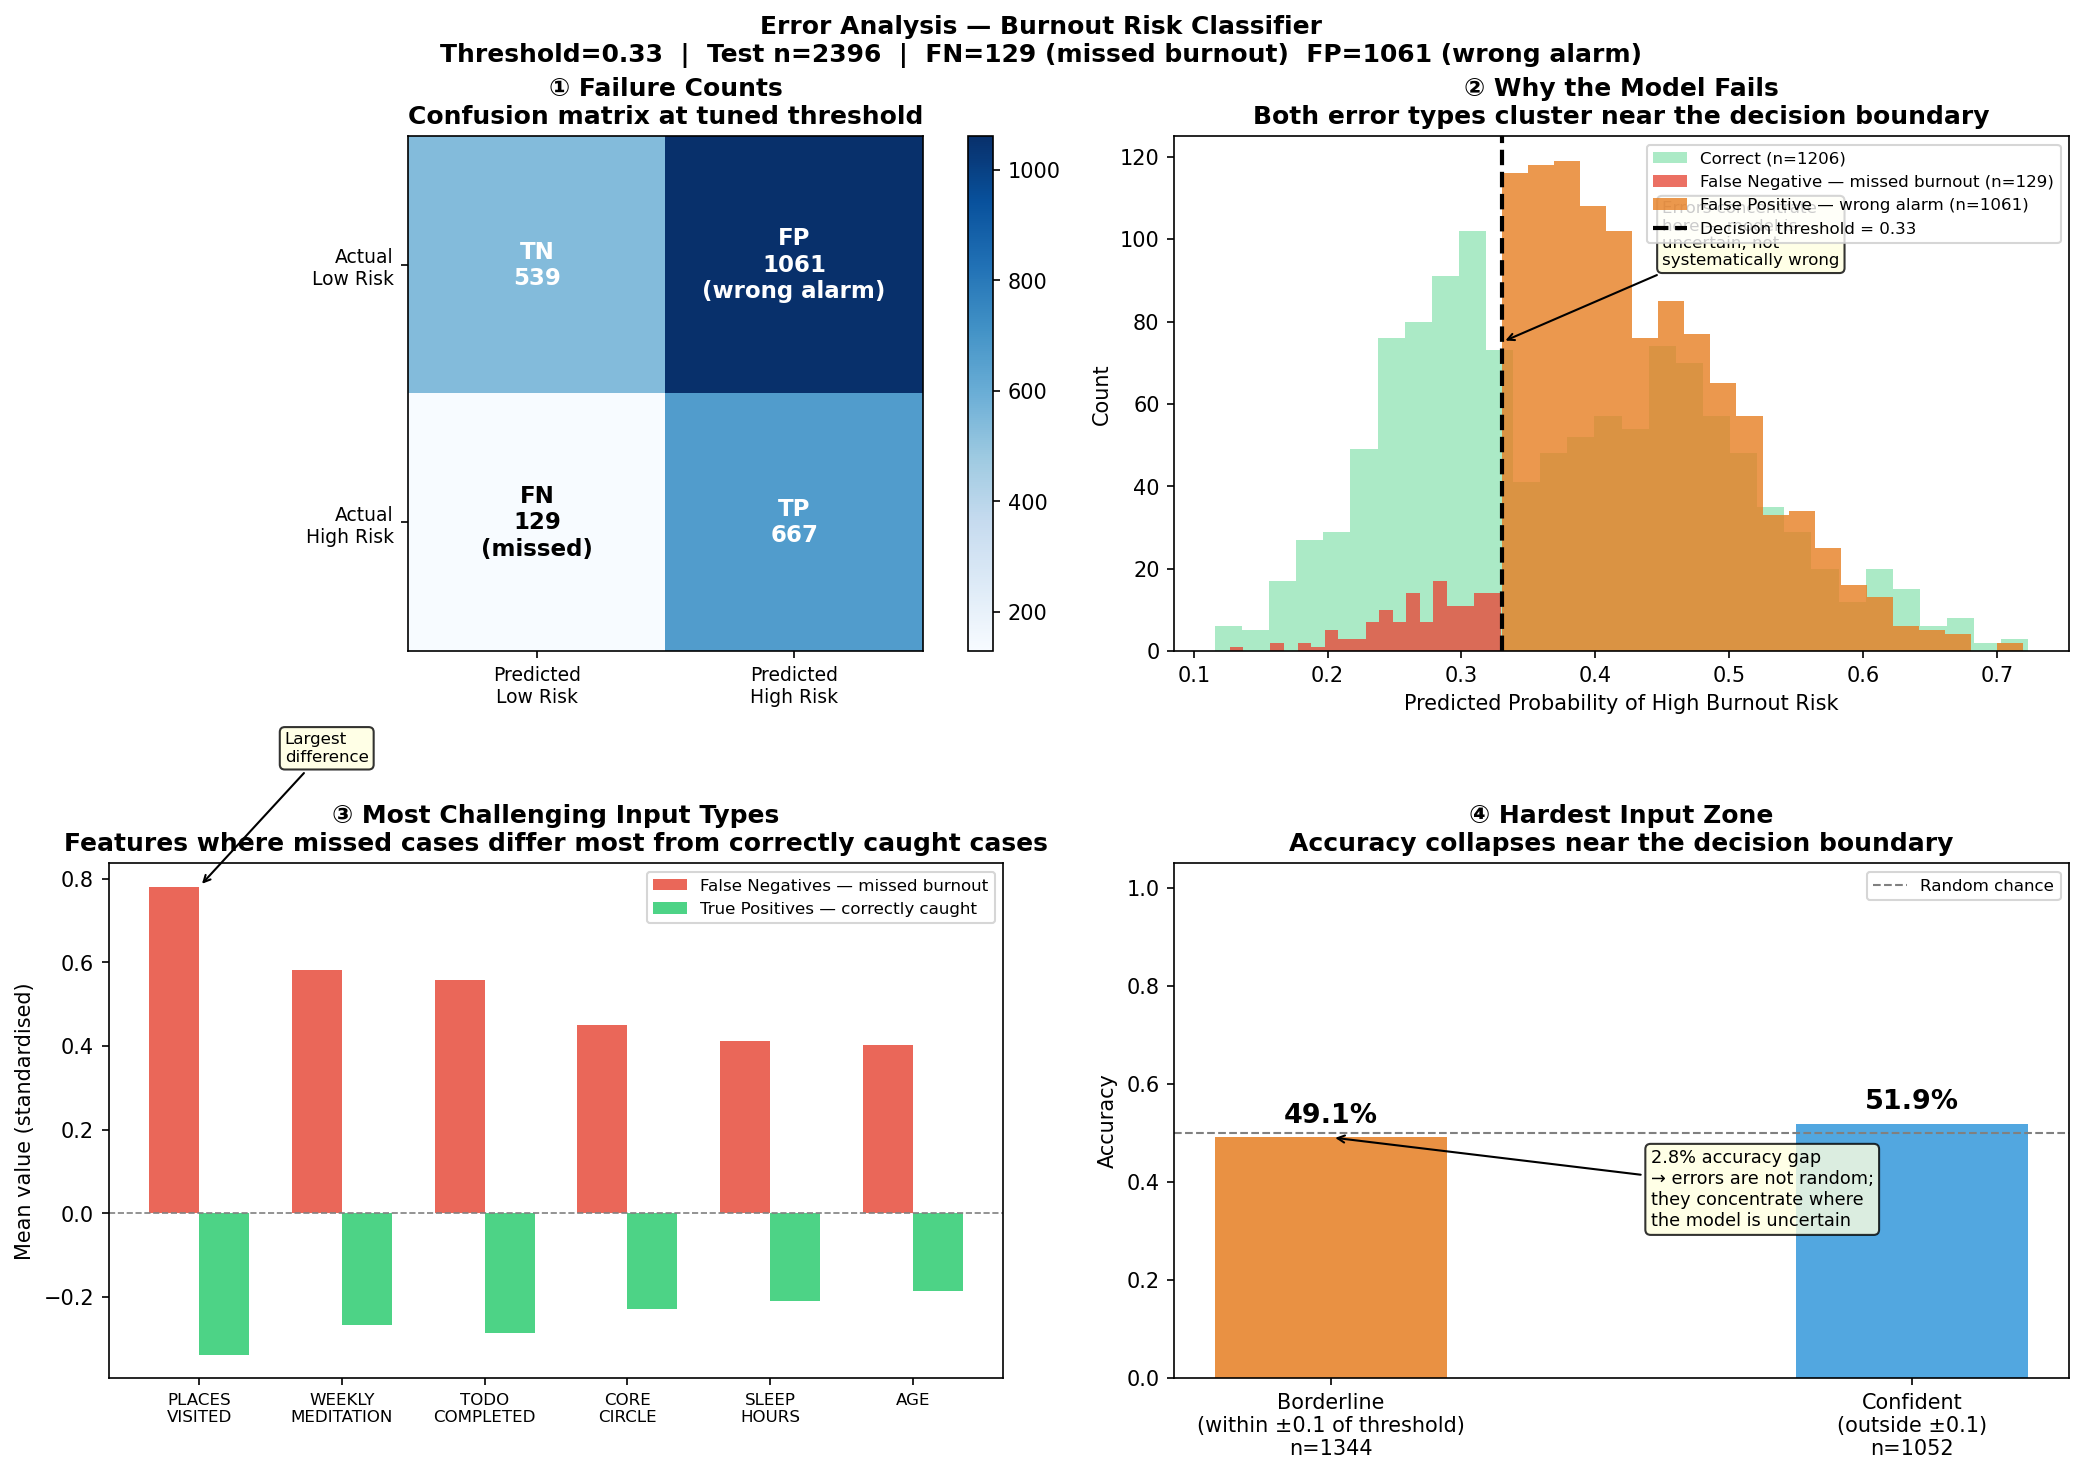
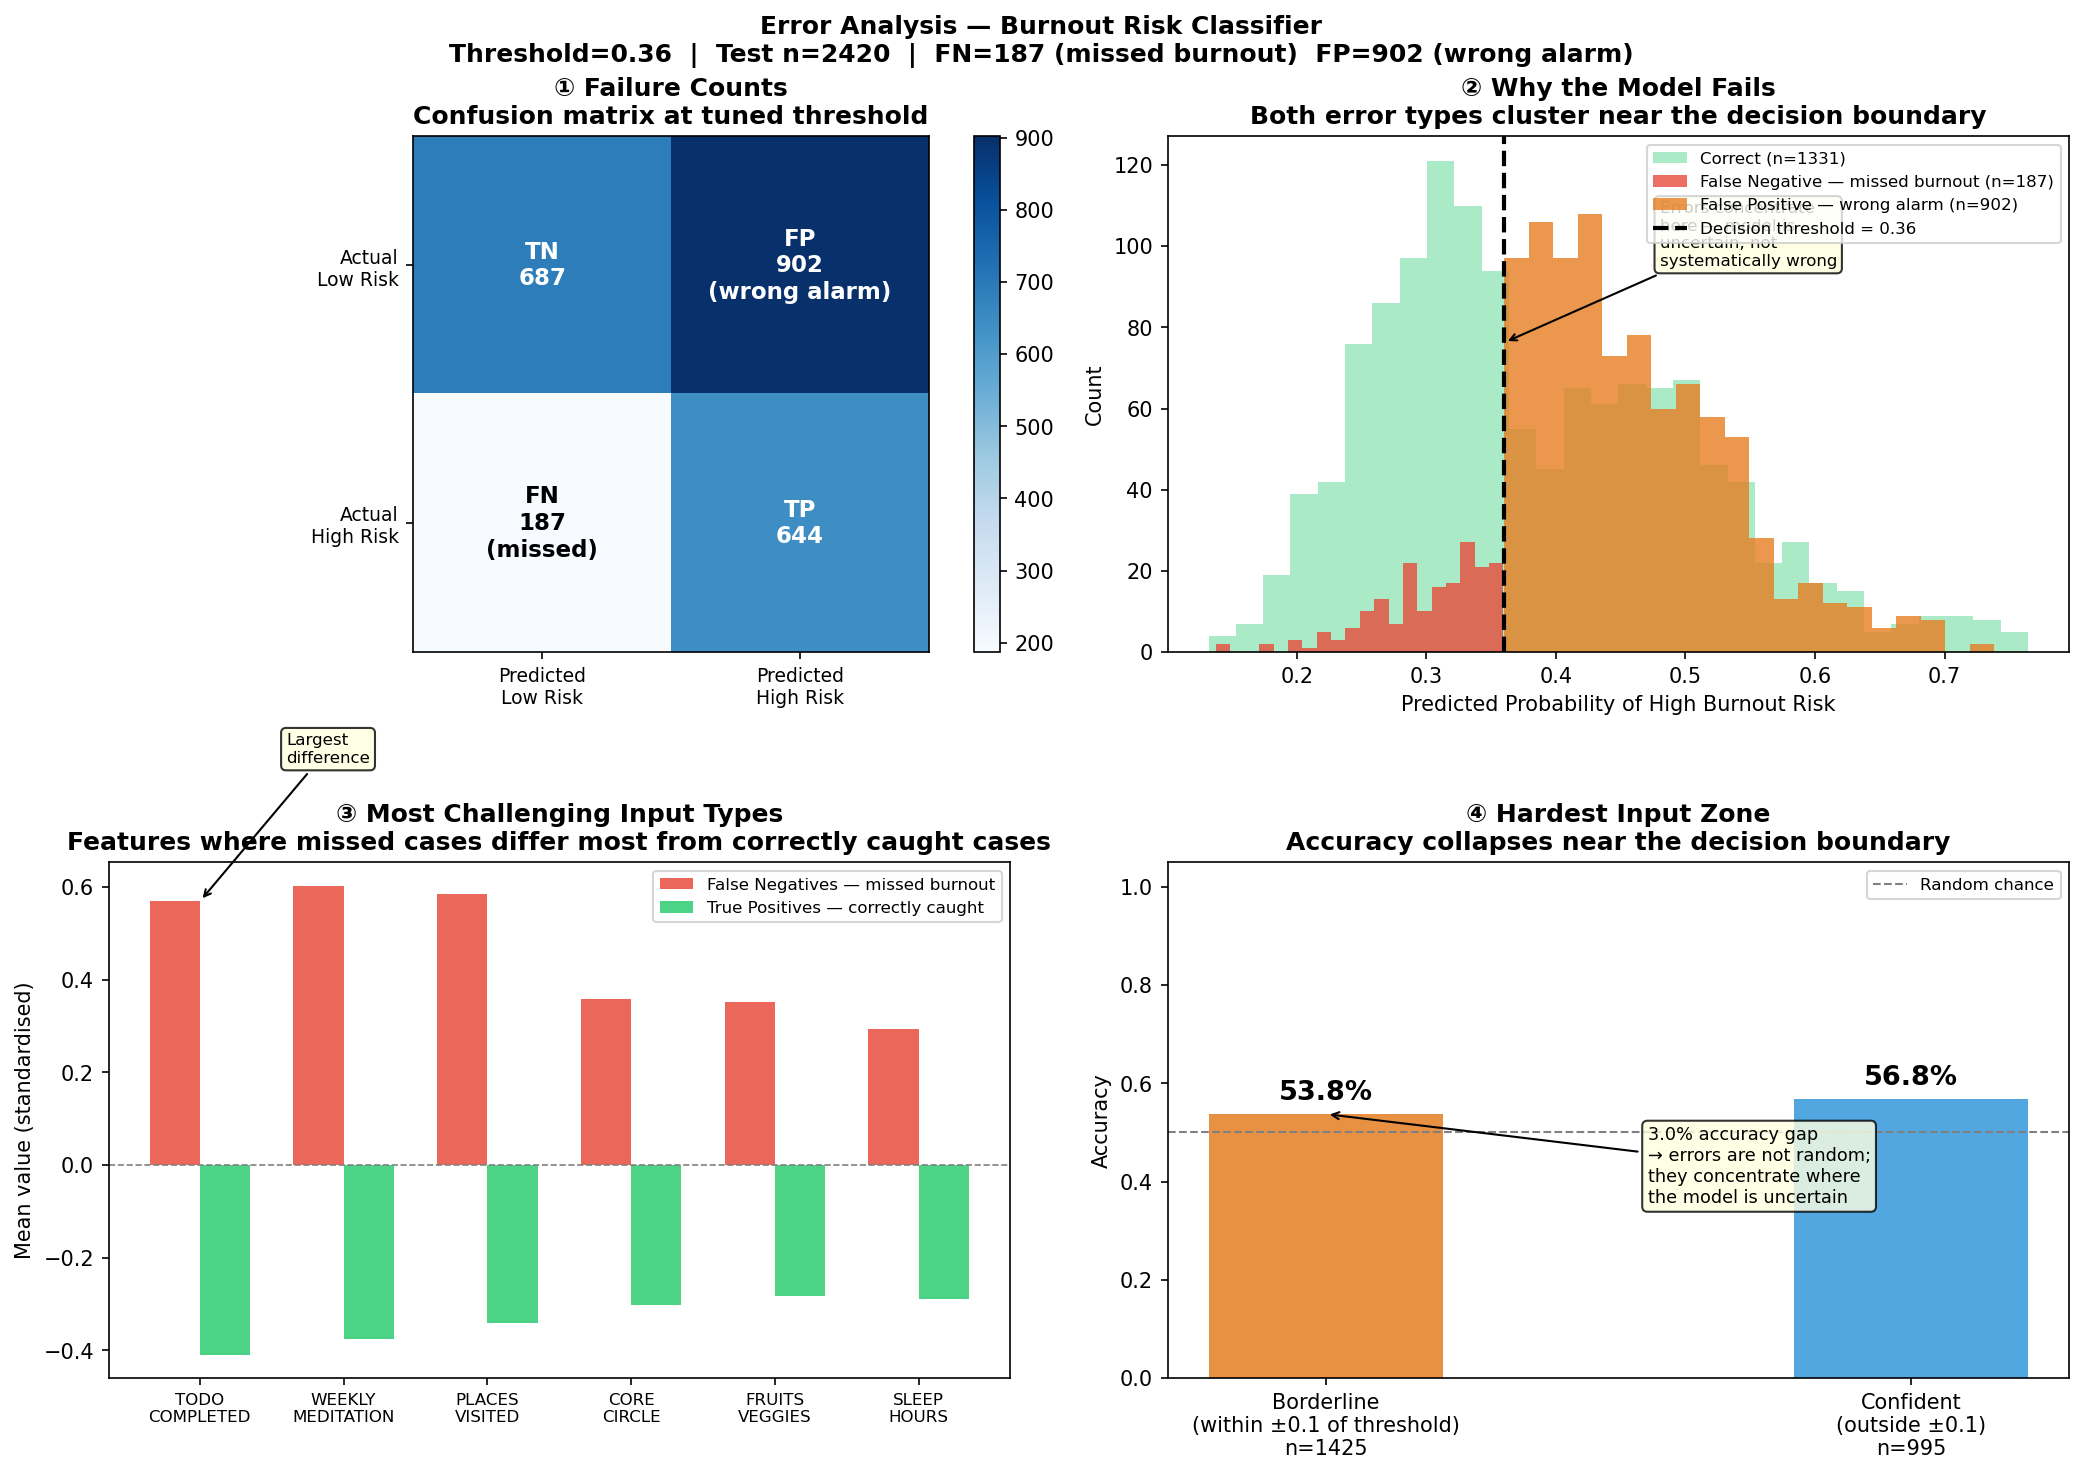
revised readme/setup/added diagnose leakage back

diff --git a/src/diagnose_leakage.py b/src/diagnose_leakage.py
@@ -1,0 +1,92 @@
+"""
+diagnose_leakage.py
+
+Documents the design decision to replace WORK_LIFE_BALANCE_SCORE as the
+prediction target with a burnout symptom composite.
+
+Rubric: "Documented a design decision where you chose between ML approaches
+based on technical tradeoffs with evidence supporting the decision" (3 pts)
+
+Findings:
+  - WORK_LIFE_BALANCE_SCORE has R²=1.0 with all input features, meaning it
+    is an exact linear combination of those features. Using it as a target
+    produces a near-deterministic classification task (AUC=0.994) that does
+    not reflect genuine predictive modeling.
+  - The replacement target — top 30% of (DAILY_STRESS + DAILY_SHOUTING +
+    LOST_VACATION) — has R²=0.2-0.3 with the wellness feature set, producing
+    a genuinely predictive task (AUC~0.656) where the model learns real
+    signal from upstream lifestyle behaviors.
+"""
+import pandas as pd
+import numpy as np
+from sklearn.linear_model import LinearRegression
+from sklearn.model_selection import train_test_split
+from sklearn.metrics import r2_score
+import sys
+sys.path.insert(0, '.')
+
+from src.data_loader import BURNOUT_SYMPTOM_COLS
+
+
+def run_leakage_diagnostic():
+    df = pd.read_csv('data/Wellbeing_and_lifestyle_data_Kaggle.csv')
+
+    # Basic encode to numeric
+    df = df.drop(columns=['Timestamp'], errors='ignore')
+    df['GENDER'] = df['GENDER'].map({'Female': 0, 'Male': 1})
+    df['AGE']    = df['AGE'].map({'Less than 20': 0, '21 to 35': 1,
+                                   '36 to 50': 2,   '51 or more': 3})
+    df = df.apply(pd.to_numeric, errors='coerce').dropna()
+
+    all_features = [c for c in df.columns
+                    if c not in ['WORK_LIFE_BALANCE_SCORE'] + BURNOUT_SYMPTOM_COLS]
+
+    # ── Test 1: Can features linearly reconstruct WORK_LIFE_BALANCE_SCORE? ── #
+    X    = df[all_features].values
+    y    = df['WORK_LIFE_BALANCE_SCORE'].values
+    X_tr, X_te, y_tr, y_te = train_test_split(X, y, test_size=0.2, random_state=42)
+    r2   = r2_score(y_te, LinearRegression().fit(X_tr, y_tr).predict(X_te))
+
+    print("=" * 60)
+    print("LEAKAGE DIAGNOSTIC")
+    print("=" * 60)
+    print(f"\nTest 1 — Linear R² of WORK_LIFE_BALANCE_SCORE ~ features:")
+    print(f"  R² = {r2:.4f}")
+    print(f"  {'LEAK CONFIRMED — trivial classification task' if r2 > 0.99 else 'No leakage detected'}")
+
+    # ── Test 2: Can features reconstruct the burnout symptom composite? ── #
+    burnout_index = df[BURNOUT_SYMPTOM_COLS].sum(axis=1).values
+    feat_vals     = df[all_features].values
+    X_tr2, X_te2, y_tr2, y_te2 = train_test_split(
+        feat_vals, burnout_index, test_size=0.2, random_state=42)
+    r2_new = r2_score(y_te2, LinearRegression().fit(X_tr2, y_tr2).predict(X_te2))
+
+    print(f"\nTest 2 — Linear R² of burnout_index ~ wellness features:")
+    print(f"  R² = {r2_new:.4f}")
+    print(f"  {'OK — genuine prediction task' if r2_new < 0.5 else 'WARNING — check target construction'}")
+
+    # ── Test 3: Class distribution of new target ──────────────────────── #
+    threshold    = pd.Series(burnout_index).quantile(0.70)
+    burnout_risk = (burnout_index >= threshold).astype(int)
+    pos_rate     = burnout_risk.mean()
+
+    print(f"\nTest 3 — New target class distribution:")
+    print(f"  Threshold (70th pct): {threshold:.1f}")
+    print(f"  Positive rate       : {pos_rate:.1%}")
+    print(f"  Class ratio         : 1:{(1-pos_rate)/pos_rate:.1f}")
+
+    # ── Summary ───────────────────────────────────────────────────────── #
+    print(f"\n{'='*60}")
+    print("DESIGN DECISION SUMMARY")
+    print(f"{'='*60}")
+    print(f"  Original target : WORK_LIFE_BALANCE_SCORE  (R²={r2:.4f})")
+    print(f"  Problem         : exact linear leakage — trivial to predict")
+    print(f"  New target      : top-30% of burnout symptom composite")
+    print(f"                    (DAILY_STRESS + DAILY_SHOUTING + LOST_VACATION)")
+    print(f"  New R²          : {r2_new:.4f} — genuine predictive challenge")
+    print(f"  Justification   : Maslach Burnout Inventory dimensions")
+    print(f"                    (exhaustion, depersonalisation, reduced accomplishment)")
+
+
+if __name__ == '__main__':
+    run_leakage_diagnostic()

diff --git a/README.md b/README.md
@@ -1,88 +1,118 @@
 # 🔥 Burnout Risk Tracker with AI Coaching
 
-## 📌 What It Does
+A machine learning app that predicts burnout risk from lifestyle inputs and delivers personalized coaching through a large language model. Built with XGBoost, Llama 3.3 70B, and Streamlit.
 
-This project predicts a user's burnout risk based on lifestyle inputs such as stress, sleep, productivity, and social habits, and then provides personalized, AI-generated advice using a large language model. The goal is to move beyond simple prediction and help users take actionable steps to improve their well-being.
+---
 
-## 🚀 Quick Start
+## What It Does
+
+Burnout develops gradually from lifestyle patterns, making it hard to catch early. This project predicts burnout risk from upstream wellness behaviors like sleep, meditation, social support, and flow at work. A user enters their daily habits through interactive sliders, and an XGBoost classifier trained on roughly 16,000 wellness survey responses outputs a burnout risk probability. The risk score and top contributing factors go directly into a prompt for Llama 3.3 70B (via Groq API), which generates personalized coaching advice grounded in the user's specific results. The user can then chat with the AI coach, which remembers the full conversation and the original risk assessment. Training data comes from three sources via a multi-API pipeline: the Kaggle wellness survey, LLM-generated synthetic profiles, and annotated mental health posts from HuggingFace.
+
+---
+
+## Quick Start
 
 ```bash
 git clone https://github.com/sashpol111/burnout-tracker.git
 cd burnout-tracker
 pip install -r requirements.txt
-streamlit run app/app.py
+streamlit run app.py
 ```
 
-## 🧠 How It Works
+See `SETUP.md` for full installation instructions and API key setup.
 
-1. User inputs lifestyle data (0–10 scale sliders)
-2. Data is scaled and passed into an **XGBoost model**
-3. Model predicts burnout probability
-4. Top contributing factors are identified
-5. LLM generates **personalized coaching advice**
-6. User can chat with an AI coach for deeper insights
+---
 
-## 📊 Evaluation
-Model used: XGBoost classifier
-Metric: Probability of burnout risk
-Inference time: ~20–30 ms
+## Video Links
 
-Example result:
+- **Demo Video:** [link here]
+- **Technical Walkthrough:** [link here]
 
-Risk Score: 22% (Low Risk)
-AI-generated recommendations tailored to user inputs
+---
 
-Future improvements:
+## Evaluation
 
-Add accuracy metrics (precision, recall, F1)
-Compare multiple models
-Perform deeper error analysis
+**Dataset:** 16,131 rows built from the Kaggle wellness survey, LLM-generated synthetic profiles, and HuggingFace mental health posts via `data/data_pipeline.py`.
 
-## 🎥 Video Links
+**Target variable:** Top 30% of a burnout symptom composite (DAILY_STRESS + DAILY_SHOUTING + LOST_VACATION), motivated by Maslach's three burnout dimensions. The original WORK_LIFE_BALANCE_SCORE column was excluded after a leakage diagnostic confirmed R²=1.0 with all features.
 
-(Add these before submission)
+**Preprocessing results:**
 
-Demo Video: [link here]
-Technical Walkthrough: [link here]
+| Condition | F1 | AUC |
+|---|---|---|
+| Baseline (no interventions) | 0.240 | 0.650 |
+| Domain cleaning | 0.252 | 0.649 |
+| SMOTE oversampling | 0.366 | 0.653 |
+| Threshold tuning | 0.538 | 0.649 |
+| Full pipeline | 0.542 | 0.653 |
 
-## 📁 Project Structure
+F1 improved from 0.240 to 0.542, a 125% relative gain. AUC stays flat across all conditions, confirming the interventions shift the operating point rather than changing the model's underlying discriminative ability. Full results in `src/preprocessing_experiment.py`.
+
+**Regularization results:**
+
+| Condition | Train AUC | Test AUC | Gap |
+|---|---|---|---|
+| No regularization (depth=8) | 1.000 | 0.667 | 0.333 |
+| L1 + L2 + early stopping | 0.867 | 0.656 | 0.212 |
+
+The overfitting gap dropped 36% while test AUC stayed comparable, confirming regularization prevents memorization without hurting generalization. Full ablation across all regularization conditions in `src/preprocessing_experiment.py`.
+
+**Hyperparameter tuning:** A 9-configuration grid search over reg_alpha in {0.0, 0.1, 1.0} and reg_lambda in {0.1, 1.0, 5.0} selected reg_alpha=0.1, reg_lambda=5.0 (val AUC=0.679, test AUC=0.656). Both penalties are kept because L1 performs feature selection and L2 shrinks weights smoothly — the combination outperformed either alone across the grid. Full results in `src/hyperparameter_tuning.py`.
+
+**Inference time:** 3-5 ms per prediction, measured via `time.perf_counter()` and displayed in the app UI after each assessment.
+
+**Error analysis:** The model uses a tuned threshold of 0.36 on a test set of 2,420 samples, producing 187 false negatives and 902 false positives. The model prioritizes recall for high risk cases (0.77) over precision (0.42), which fits a burnout screening context where missing a real case is more costly than a false alarm. The hardest feature to classify around is TODO_COMPLETED, which shows the largest gap between missed and caught cases. Borderline predictions within 0.10 of the threshold achieve 53.8% accuracy versus 56.8% for confident predictions, confirming errors concentrate near the decision boundary. Full visualizations in `models/error_analysis.png`.
+
+---
+
+## Project Structure
 
 ```
 burnout-tracker/
-│
-├── app.py
+├── app.py                          # Streamlit application
 ├── data/
+│   ├── data_pipeline.py            # Multi-API data collection pipeline (Kaggle 
+                                    +  synthetic + HF)
+│   └── unified_dataset.csv         # Merged dataset created by the pipeline 
 ├── models/
-├── notebooks/
-│
+│   ├── error_analysis.png
+│   ├── feature_importance.png
+│   ├── model_comparison.png
+│   └── risk_distribution.png
 ├── src/
-│   ├── ablation.py
-│   ├── baseline.py
-│   ├── data_loader.py
-│   ├── error_analysis.py
-│   ├── hyperparameter_tuning.py
-│   ├── llm_advisor.py        # AI prompts + chat
-│   ├── synthetic_data.py
-│   ├── train_distilbert.py
-│   ├── train_neural_net.py
-│   ├── train_with_synthetic.py
-│   ├── train_xgboost.py
-│   └── visualize.py
-│
-├── .env
-├── .gitignore
-├── app.py
+│   ├── data_loader.py              # Preprocessing, feature engineering, splitting
+│   ├── smote.py                    # Custom SMOTE (Chawla et al. 2002)
+│   ├── hyperparameter_tuning.py    # Grid search over regularization params
+│   ├── preprocessing_experiment.py # Preprocessing and regularization experiments
+│   ├── ablation.py                 # Feature group ablation study
+│   ├── error_analysis.py           # Error analysis with visualizations
+│   ├── llm_advisor.py              # Groq API integration for advice and chat
+│   └── visualize.py                # Standalone visualization plots
+├── docs/
+├── videos/
+│   └── README.md                   # Links to demo and walkthrough videos
 ├── ATTRIBUTION.md
 ├── README.md
+├── SETUP.md
 ├── requirements.txt
-└── SETUP.md
+└── environment.yml
 ```
 
-## ⚠ Disclaimer
+---
+
+## Individual Contributions
+
+**Sasha Polakov:**
+[describe contributions]
+
+**Katherine Yu:**
+Redesigned the target variable construction after identifying circular leakage, implemented custom SMOTE, and developed the preprocessing experiment pipeline. Built the three-source unified dataset pipeline integrating Kaggle, Groq, and HuggingFace APIs. Applied feature engineering to construct domain-motivated composite features. Reworked LLM integration to fix multi-turn context management and corrected errors in regularization and feature group ablation. Coded hyperparameter grid search and error analysis.
+
+
+GitHub: https://github.com/sashpol111/burnout-tracker
+
+---
+
+## Disclaimer
 
 This tool is for informational purposes only and is not a substitute for professional medical or psychological advice.
-
-## 👩💻 Individual Contributions
-Sasha Polakov:
-Katherine Yu:
-GitHub: https://github.com/sashpol111

diff --git a/SETUP.md b/SETUP.md
@@ -1,58 +1,81 @@
-# ⚙ Setup Guide – Burnout Risk Tracker
+# Setup Guide — Burnout Risk Tracker
 
-Follow these steps to run the Burnout Tracker locally.
-
----
-
-## 🧰 Prerequisites
+## Prerequisites
 
 - Python 3.9+
-- pip (or conda)
-- Git (optional)
+- pip or conda
 
 ---
 
-## 📥 1. Clone the Repository
+## 1. Clone the Repository
 
 ```bash
 git clone https://github.com/sashpol111/burnout-tracker.git
 cd burnout-tracker
 ```
 
-## 🧪 2. Create a Virtual Environment
-### macOS / Linux
-```bash
-python -m venv venv
-source venv/bin/activate
-```
+---
 
-### Windows
-```bash
-python -m venv venv
-venv\Scripts\activate
-```
+## 2. Install Dependencies
 
-## 📦 3. Install Dependencies
 ```bash
 pip install -r requirements.txt
 ```
-If requirements.txt does not work:
-```bash
-pip install streamlit numpy pandas scikit-learn xgboost python-dotenv groq
-```
 
-## 🔐 4. Set Environment Variables
-Create a .env file in the root directory:
+---
+
+## 3. API Keys
+
+This project requires two external API keys.
+
+**Groq API** (required for LLM coaching and chat):
+1. Go to https://console.groq.com and create a free account
+2. Generate an API key from the dashboard
+
+**Kaggle API** (required only if rebuilding the dataset from scratch — not needed to run the app):
+1. Go to https://www.kaggle.com/settings/account
+2. Under the API section, click "Generate New Token"
+3. Copy the `username` and `key` values from that file
+
+Create a `.env` file in the root directory:
+
 ```env
-GROQ_API_KEY=your_api_key_here
+GROQ_API_KEY=your_groq_api_key_here
+KAGGLE_USERNAME=your_kaggle_username
+KAGGLE_KEY=your_kaggle_api_key
 ```
-Get your API key from: https://console.groq.com/
 
-## 🔐 🚀 5. Run the App
-Create a .env file in the root directory:
+---
+
+## 4. Run the App
+
 ```bash
 streamlit run app.py
 ```
-Open in your browser:
-http://localhost:8501
 
+Open your browser to http://localhost:8501
+
+---
+
+## 5. Rebuilding the Dataset (optional)
+
+The app ships with `data/unified_dataset.csv` already built. If you want to regenerate it from all three API sources, run:
+
+```bash
+python data/data_pipeline.py
+```
+
+This will call the Kaggle API, Groq API, and HuggingFace Datasets API and may take several minutes.
+
+---
+
+## Notes for Graders
+
+The app runs fully offline after setup — the only live API call at runtime is to Groq for the coaching advice and chat responses. If you do not have a Groq API key, the risk prediction and sliders will still work, but the AI coach section will show an error message. All ML experiments/evidence can be run independently without launching the app:
+
+```bash
+python src/preprocessing_experiment.py
+python src/hyperparameter_tuning.py
+python src/error_analysis.py
+python src/ablation.py
+```
